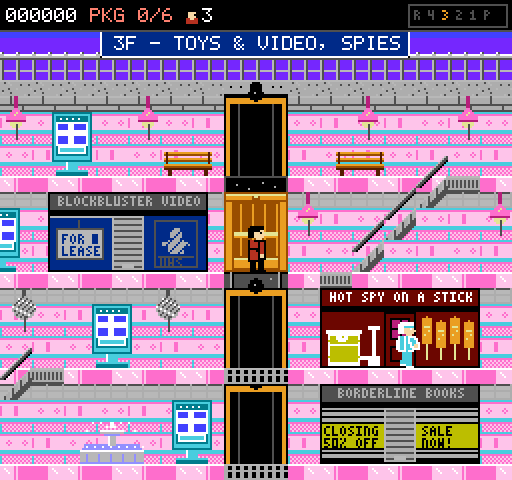
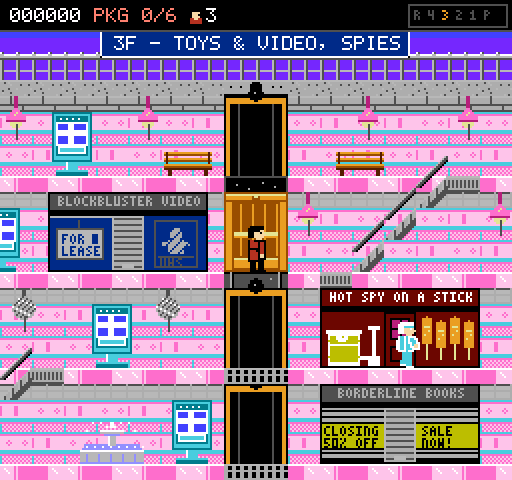
CRT edge fix, debug setters, per-game flags, difficulty wiring, key fallback, store spawn, clippy cleanups, npm wrappers, notes

Changed region(s): [[0.0, 0.0, 0.4375, 0.0625]]

diff --git a/web/mq_js_bundle.js b/web/mq_js_bundle.js
@@ -1848,6 +1848,14 @@ miniquad_add_plugin({ register_plugin, version: 1, name: "macroquad_audio" });
                 window.mallDebug = {
                     step: function (n, mask) { wasm_exports.mall_debug_step(n | 0, (mask | 0) >>> 0); },
                     get: function (i) { return wasm_exports.mall_debug_get(i | 0); },
+                    // playtest setters: set("floor",4) set("x",120) set("packages",6) set("lives",1) set("score",n)
+                    // set("power",0..8) set("kill",1) set("spy",distance) set("alarm",1) set("store",0..12 teleport to its door)
+                    // set("room_package",1) set("continues",n) set("time",seconds) set("nudge",dx) set("room_door",1)
+                    set: function (name, v) {
+                        var ids = { floor: 1, x: 2, packages: 3, lives: 4, score: 5, power: 6, kill: 7, spy: 8, alarm: 9, store: 10,
+                                    room_package: 11, continues: 12, time: 13, nudge: 14, room_door: 15 };
+                        wasm_exports.mall_debug_set(ids[name], v | 0);
+                    },
                     // after the first step() the game only advances when stepped; resume() restores real time
                     resume: function () { wasm_exports.mall_debug_resume(); },
                     fields: ["scene", "score", "lives", "packages", "loop", "x", "floor", "y", "overlay", "frame", "mallT", "spies", "alarm", "storeId", "crt", "muted", "pstate", "bullets", "coins", "banner", "cause", "pfloor", "copFloor", "copX"],

diff --git a/web/mall_plugin.js b/web/mall_plugin.js
@@ -75,6 +75,14 @@
                 window.mallDebug = {
                     step: function (n, mask) { wasm_exports.mall_debug_step(n | 0, (mask | 0) >>> 0); },
                     get: function (i) { return wasm_exports.mall_debug_get(i | 0); },
+                    // playtest setters: set("floor",4) set("x",120) set("packages",6) set("lives",1) set("score",n)
+                    // set("power",0..8) set("kill",1) set("spy",distance) set("alarm",1) set("store",0..12 teleport to its door)
+                    // set("room_package",1) set("continues",n) set("time",seconds) set("nudge",dx) set("room_door",1)
+                    set: function (name, v) {
+                        var ids = { floor: 1, x: 2, packages: 3, lives: 4, score: 5, power: 6, kill: 7, spy: 8, alarm: 9, store: 10,
+                                    room_package: 11, continues: 12, time: 13, nudge: 14, room_door: 15 };
+                        wasm_exports.mall_debug_set(ids[name], v | 0);
+                    },
                     // after the first step() the game only advances when stepped; resume() restores real time
                     resume: function () { wasm_exports.mall_debug_resume(); },
                     fields: ["scene", "score", "lives", "packages", "loop", "x", "floor", "y", "overlay", "frame", "mallT", "spies", "alarm", "storeId", "crt", "muted", "pstate", "bullets", "coins", "banner", "cause", "pfloor", "copFloor", "copX"],

diff --git a/core/src/game/mod.rs b/core/src/game/mod.rs
@@ -39,6 +39,8 @@ pub struct Session {
     pub egg_done: bool,
     pub jokes: Vec<usize>,
     pub strip: bool,
+    /// Stores whose first-visit lines were already spoken (once per game, by `ALL_STORES` index).
+    pub visited: Vec<bool>,
 }
 
 impl Session {
@@ -55,6 +57,7 @@ impl Session {
             egg_done: false,
             jokes: vec![],
             strip: false,
+            visited: vec![false; 13],
         }
     }
     /// Add (or subtract) points; grants the one extra life at 20,000. Returns true if a life was granted.
@@ -253,12 +256,21 @@ impl Game {
     }
     pub fn new_level(&mut self) {
         self.stores = setup_stores(&mut self.rng, self.s.bf);
+        for (st, seen) in self.stores.iter_mut().zip(self.s.visited.iter()) {
+            st.visited = *seen; // first-visit lines and the photo-strip pop-up happen once per GAME, not per loop
+        }
         self.s.packages = 0;
         self.mall = Mall::new(&mut self.rng, self.s.loop_n);
+        self.mall.booth_strip_shown = self.s.strip;
         self.room = None;
         self.cur_store = None;
         self.powers = Powers { radar: false, ..Powers::new() };
         self.overlay = Overlay::None;
+    }
+    #[cfg(test)]
+    pub fn next_loop_for_test(&mut self) {
+        self.s.loop_n += 1;
+        self.new_level();
     }
     pub fn start_game(&mut self) {
         let hi = self.hi_session;
@@ -315,6 +327,7 @@ impl Game {
                 let mut c = SCtx { powers: &mut self.powers, rng: &mut self.rng, loop_n: self.s.loop_n, packages: self.s.packages };
                 let room = StoreRoom::enter(id, &self.stores[st_idx], &mut c, egg);
                 self.stores[st_idx].visited = true;
+                self.s.visited[st_idx] = true;
                 self.room = Some(room);
                 self.cur_store = Some(id);
                 self.scene = Scene::Store;
@@ -605,6 +618,83 @@ impl Game {
             return;
         }
         self.scene = Scene::GameOver { t };
+    }
+
+    /// `?debug=1` playtest setters (see `window.mallDebug.set`). Cheats only exist for automated playtests.
+    pub fn debug_cmd(&mut self, cmd: u32, v: i32) {
+        let door = |i: i32| level::STORE_SLOTS[(i.rem_euclid(13)) as usize];
+        match cmd {
+            1 => self.mall.p.floor = v.clamp(0, 5) as u8,
+            2 => self.mall.p.x = v as f32,
+            3 => self.s.packages = v.clamp(0, 6) as u32,
+            4 => self.s.lives = v,
+            5 => self.s.score = v.max(0),
+            6 => {
+                let kinds = [
+                    PowerKind::Rapid,
+                    PowerKind::Spread,
+                    PowerKind::Armor,
+                    PowerKind::Sneakers,
+                    PowerKind::Radar,
+                    PowerKind::OneUp,
+                    PowerKind::Cinnabomb,
+                    PowerKind::Ooze,
+                    PowerKind::Pretzel,
+                ];
+                self.grant(kinds[(v.rem_euclid(9)) as usize]);
+            }
+            7 => self.mall.kill_player(Cause::Bullet),
+            8 => {
+                // a spy `v` px in front of the agent, same floor
+                let dir: i8 = if self.mall.p.face >= 0 { 1 } else { -1 };
+                let x = (self.mall.p.x + dir as f32 * v as f32).clamp(40.0, 740.0);
+                let floor = self.mall.p.floor;
+                self.mall.spies.push(mall::Spy {
+                    x,
+                    floor,
+                    dir: -dir,
+                    st: mall::SpyState::Walk,
+                    age: 130,
+                    cd: 0,
+                    walk_t: 100,
+                    goal: None,
+                    last_volley: 0,
+                    anim: 0,
+                });
+            }
+            9 => self.mall.alarm_at = self.mall.t + 1,
+            10 => {
+                let s = door(v);
+                self.mall.p.floor = s.floor;
+                self.mall.p.x = s.door_x() as f32;
+                self.mall.p.st = PState::Walk;
+                self.mall.p.z = 0.0;
+            }
+            11 => {
+                // inside a store: stand next to the package fixture (guards stay alive)
+                if let (Some(room), Some(id)) = (self.room.as_mut(), self.cur_store) {
+                    let st = self.stores.iter().find(|s| s.id == id).unwrap();
+                    if let Some(i) = st.contents.iter().position(|c| *c == level::Content::Package) {
+                        let f = room.fixtures[i];
+                        room.x = (f.tx * rooms::TILE + 8) as f32;
+                        room.y = ((f.ty + 1) * rooms::TILE + 1) as f32;
+                        room.face = store::Dir::Up;
+                    }
+                }
+            }
+            12 => self.s.continues = v.max(0) as u32,
+            13 => self.mall.t = v.max(0) * 60,
+            14 => self.mall.p.x += v as f32,
+            15 => {
+                // inside a store: stand just inside the door
+                if let Some(room) = self.room.as_mut() {
+                    let (sx, sy) = (rooms::START.0 * rooms::TILE + 8, rooms::START.1 * rooms::TILE + 8);
+                    room.x = (sx - 8) as f32;
+                    room.y = sy as f32;
+                }
+            }
+            _ => {}
+        }
     }
 
     // ------------------------------------------------------------------ audio hints

diff --git a/core/src/game/mall.rs b/core/src/game/mall.rs
@@ -1,5 +1,6 @@
 //! The side-scrolling mall: player, elevators, escalators, spies, lights, NPCs.
 //! Pure rules; the renderer only reads this state. All randomness comes from the passed-in Rng.
+use super::difficulty;
 use super::elevator::{Car, CarEvent, Fall, Opening};
 use super::level::*;
 use super::powerups::{PowerKind, Powers, Weapon};
@@ -315,7 +316,7 @@ impl Mall {
         for (f, x) in LAMPS {
             lamps.push(Lamp { floor: f, x: x as f32, disco: f == 2, st: LampState::Hang });
         }
-        let alarm_at = (150 - 20 * (loop_n as i32 - 1)).max(60) * 60;
+        let alarm_at = difficulty(loop_n).alarm_secs * 60;
         let cop_floor = *rng.pick(&[4u8, 3, 2, 1]);
         Mall {
             t: 0,
@@ -437,8 +438,7 @@ impl Mall {
     }
     fn score(&mut self, pts: i32, x: f32, y: f32) {
         self.ev.push(Ev::Score(pts));
-        let t = if pts >= 0 { format!("{pts}") } else { format!("{pts}") };
-        self.popup(x, y, t);
+        self.popup(x, y, format!("{pts}"));
     }
     pub fn set_banner(&mut self, lines: Vec<String>, frames: i32, alert: bool) {
         self.banner = Some(Banner { lines, t: frames, total: frames, alert });
@@ -801,7 +801,7 @@ impl Mall {
             if pad.pressed(DOWN) && self.interact_down() {
                 return;
             }
-            if pad.pressed(B) && self.p.slide == 0 || (pad.pressed(B) && self.p.slide != 0) {
+            if pad.pressed(B) {
                 self.p.vz = if ctx.powers.high_jump() { JUMP_V_HIGH } else { JUMP_V };
                 self.p.z = 0.01;
                 self.p.air_dir = dir as i8;
@@ -1207,21 +1207,21 @@ impl Mall {
 // ====================== spies, bullets, lights, items ======================
 impl Mall {
     pub fn spy_speed(&self, loop_n: u32) -> f32 {
-        let mut s = 0.6 * (1.0 + 0.10 * (loop_n as f32 - 1.0)).min(1.6);
+        let mut s = 0.6 * difficulty(loop_n).spy_speed;
         if self.alarm {
             s *= 1.25;
         }
         s
     }
     pub fn spy_shot_interval(&self, loop_n: u32) -> i32 {
-        let mut i = 150.0 / (1.0 + 0.15 * (loop_n as f32 - 1.0)).min(2.2);
+        let mut i = 150.0 / difficulty(loop_n).shot_rate;
         if self.alarm {
             i *= 0.85;
         }
         (i as i32).max(60)
     }
     pub fn spawn_interval(&self, loop_n: u32, bf: bool) -> i32 {
-        let mut i = 360.0 / (1.0 + 0.15 * (loop_n as f32 - 1.0)).min(2.2);
+        let mut i = 360.0 / difficulty(loop_n).spawn_rate;
         if self.alarm {
             i /= 1.6;
         }
@@ -1361,7 +1361,7 @@ impl Mall {
             }
         }
         self.spies = spies;
-        self.spies.retain(|s| !matches!(s.st, SpyState::Dying(t) if t <= 0 && false) && !matches!(s.st, SpyState::Dying(t) if t < -1));
+        self.spies.retain(|s| !matches!(s.st, SpyState::Dying(t) if t < -1));
     }
 
     pub fn kill_spy(&mut self, idx: usize, pts: i32, ctx: &mut Ctx) {

diff --git a/core/src/input.rs b/core/src/input.rs
@@ -78,7 +78,8 @@ impl KeyMapper {
         let is_letter_key = code.starts_with("Key");
         let action = if is_letter_key {
             match ch {
-                Some(c) if c.is_ascii_alphabetic() => by_char(c),
+                // printed letter first; a printed letter with no binding falls back to the physical position
+                Some(c) if c.is_ascii_alphabetic() => by_char(c).or_else(|| by_code(code)),
                 _ => by_code(code),
             }
         } else {
@@ -229,8 +230,10 @@ mod tests {
         assert_eq!(m.key_down("KeyW", Some('z')), Some(Action::Pad(A)));
         // QWERTZ: physical KeyY prints 'z' -> shoot
         assert_eq!(m.key_down("KeyY", Some('z')), Some(Action::Pad(A)));
-        // QWERTZ: physical KeyZ prints 'y' -> unmapped
-        assert_eq!(m.key_down("KeyZ", Some('y')), None);
+        // QWERTZ: physical KeyZ prints 'y' (no binding) -> falls back to its physical position (shoot)
+        assert_eq!(m.key_down("KeyZ", Some('y')), Some(Action::Pad(A)));
+        // a letter with neither a printed nor a physical binding stays unmapped
+        assert_eq!(m.key_down("KeyB", Some('b')), None);
         // uppercase (shift held) still works
         assert_eq!(m.key_down("KeyM", Some('M')), Some(Action::ToggleMute));
     }

diff --git a/core/src/game/tests.rs b/core/src/game/tests.rs
@@ -1215,3 +1215,26 @@ fn loop_one_is_fair_a_new_player_reaches_the_first_4f_store_without_dying() {
     }
     assert!(deaths <= 3, "{deaths}/40 attempts died on the way to the first store: {causes:?}");
 }
+
+#[test]
+fn first_visit_lines_and_photo_strip_are_once_per_game_not_per_loop() {
+    let mut h = H::play(50);
+    h.g.s.visited[stores::index(StoreId::KgbToys)] = true;
+    h.g.s.strip = true;
+    h.g.s.loop_n = 1;
+    h.g.next_loop_for_test();
+    assert!(h.g.stores.iter().find(|s| s.id == StoreId::KgbToys).unwrap().visited);
+    assert!(h.g.mall.booth_strip_shown, "the strip already popped up this game");
+    assert!(!h.g.stores.iter().find(|s| s.id == StoreId::SamBaddy).unwrap().visited);
+}
+
+#[test]
+fn debug_commands_teleport_and_set_state() {
+    let mut h = H::play(51);
+    h.g.debug_cmd(10, 4); // KGB Toys door
+    assert_eq!((h.m().p.floor, h.m().p.x as i32), (3, slot(StoreId::KgbToys).door_x()));
+    h.g.debug_cmd(3, 6);
+    assert_eq!(h.g.s.packages, 6);
+    h.g.debug_cmd(8, 100);
+    assert_eq!(h.m().spies.len(), 1);
+}

diff --git a/core/src/render/mall_view.rs b/core/src/render/mall_view.rs
@@ -113,7 +113,7 @@ impl Renderer {
             }
             let st = g.store_state(s.id);
             let look = if st.role() == Role::Target && st.package_taken { StoreLook::Cleared } else { StoreLook::Normal };
-            self.draw_storefront(cv, sx(s.x), sy(floor_y(s.floor)), s.id, (m.t / 1) as i64, look);
+            self.draw_storefront(cv, sx(s.x), sy(floor_y(s.floor)), s.id, m.t as i64, look);
             if g.s.bf && st.open_for_entry() {
                 cv.blit(self.spr("sf_sale70"), sx(s.x + 26), sy(floor_y(s.floor) - 38));
             }
@@ -489,7 +489,7 @@ impl Renderer {
         let w = lines.iter().map(|l| text_width(l)).max().unwrap_or(0) + 12;
         // slide in/out
         let slide = ((total - t).min(8).min(t.max(0))).clamp(0, 8);
-        let y = 22 + 0 * slide - (8 - slide);
+        let y = 22 - (8 - slide);
         let x = (SCREEN_W as i32 - w) / 2;
         let (bg, fg) = if alert { (c::RED_D, c::WHITE) } else { (c::BLUE_D, c::WHITE) };
         draw_box(cv, x, y, w, h, bg, c::WHITE);

diff --git a/core/src/render/hud.rs b/core/src/render/hud.rs
@@ -12,13 +12,13 @@ impl Renderer {
         cv.rect(0, 0, SCREEN_W as i32, 16, c::BLACK);
         cv.hline(0, 15, SCREEN_W as i32, c::GRAY_D);
         // score
-        draw_text(cv, 3, 4, &format!("{:06}", g.s.score.max(0)), c::WHITE);
+        draw_text(cv, 5, 4, &format!("{:06}", g.s.score.max(0)), c::WHITE);
         // packages
         let all = g.s.packages >= 6;
-        draw_text(cv, 45, 4, &format!("PKG {}/6", g.s.packages), if all { c::GREEN_L } else { c::RED_L });
+        draw_text(cv, 47, 4, &format!("PKG {}/6", g.s.packages), if all { c::GREEN_L } else { c::RED_L });
         // lives
-        cv.blit(self.spr("hud_head"), 92, 4);
-        draw_text(cv, 101, 4, &format!("{}", g.s.lives.max(0)), c::WHITE);
+        cv.blit(self.spr("hud_head"), 94, 4);
+        draw_text(cv, 103, 4, &format!("{}", g.s.lives.max(0)), c::WHITE);
         // active timed power-up
         if let Some((k, left, total)) = g.powers.hud_timer() {
             let name = match k {

diff --git a/core/src/render/store_view.rs b/core/src/render/store_view.rs
@@ -75,7 +75,7 @@ impl Renderer {
                     }
                     b'F' => {
                         draw_floor(cv);
-                        cv.blit(self.spr(&format!("rt_fitting_{}", room.guards.iter().any(|_| false) as i32)), x, y);
+                        cv.blit(self.spr("rt_fitting_0"), x, y);
                         let fi = room.fixtures.iter().position(|f| f.tx == tx && f.ty == ty).unwrap();
                         if st.opened[fi] || st.revealed[fi] {
                             cv.blit(self.spr("rt_fitting_1"), x, y);
@@ -232,8 +232,6 @@ impl Renderer {
         }
         let (x, y) = (room.x as i32 - 8 + ox, room.y as i32 - 8 + oy);
         let f = (room.t / 8) % 2;
-        let moving = g.frame % 1 == 0;
-        let _ = moving;
         let name = match room.st {
             PSt::Hold { .. } => "tdagent_hold".to_string(),
             PSt::Stun(_) => "tdagent_stun".to_string(),

diff --git a/app/src/platform.rs b/app/src/platform.rs
@@ -93,6 +93,17 @@ pub extern "C" fn mall_debug_resume() {
     MANUAL.store(false, Relaxed);
 }
 static MANUAL: AtomicBool = AtomicBool::new(false);
+static CMDS: std::sync::Mutex<Vec<(u32, i32)>> = std::sync::Mutex::new(Vec::new());
+/// Queue a debug command (teleport, set lives/packages, spawn a spy, ...): see `Game::debug_cmd`.
+#[no_mangle]
+pub extern "C" fn mall_debug_set(cmd: u32, value: i32) {
+    if let Ok(mut q) = CMDS.lock() {
+        q.push((cmd, value));
+    }
+}
+pub fn debug_take_cmds() -> Vec<(u32, i32)> {
+    CMDS.lock().map(|mut q| std::mem::take(&mut *q)).unwrap_or_default()
+}
 /// True once a debug step was requested: real-time stepping is suspended.
 pub fn manual_mode() -> bool {
     MANUAL.load(Relaxed)

diff --git a/app/src/crt.rs b/app/src/crt.rs
@@ -29,9 +29,14 @@ float hash(vec2 p) {
 }
 
 void main() {
-    // mild barrel warp that pulls the picture inward (so nothing is ever blank at the edges)
+    // mild barrel curvature: sample slightly outward, so the whole picture stays visible and only
+    // the last ~3 px of the extreme corners fall off the tube
     vec2 d = uv * 2.0 - 1.0;
-    vec2 w = d / (1.0 + 0.05 * vec2(d.y * d.y, d.x * d.x));
+    vec2 w = d * (1.0 + 0.03 * vec2(d.y * d.y, d.x * d.x));
+    if (abs(w.x) > 1.0 || abs(w.y) > 1.0) {
+        gl_FragColor = vec4(0.0, 0.0, 0.0, 1.0);
+        return;
+    }
     vec2 suv = w * 0.5 + 0.5;
     vec3 col = texture2D(Texture, suv).rgb;
     // scanlines: one dark band per source row

diff --git a/core/src/render/gallery.rs b/core/src/render/gallery.rs
@@ -56,7 +56,7 @@ impl Renderer {
         cv.clear(c::GRAY_D);
         let pages = self.gallery_pages();
         let page = page % pages.len();
-        draw_text(cv, 4, 4, &format!("GALLERY {}/{}  LEFT/RIGHT", page + 1, pages.len()), c::WHITE);
+        draw_text(cv, 8, 5, &format!("GALLERY {}/{}  LEFT/RIGHT", page + 1, pages.len()), c::WHITE);
         for it in &pages[page] {
             let s = self.sprites.anim(&it.base, (t / 10) as usize);
             cv.rect(it.x - 1, it.y - 1, s.w as i32 + 2, s.h as i32 + 2, c::BLACK);
